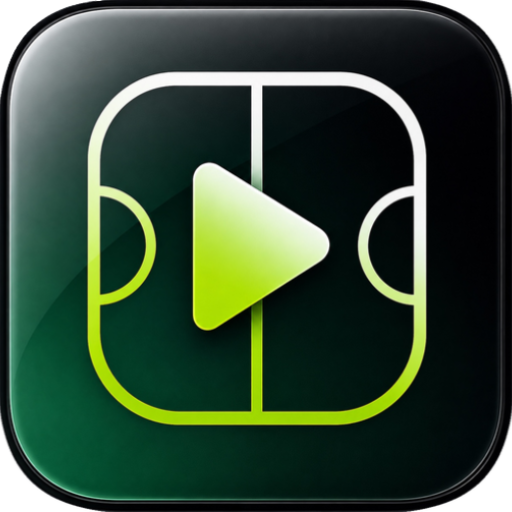
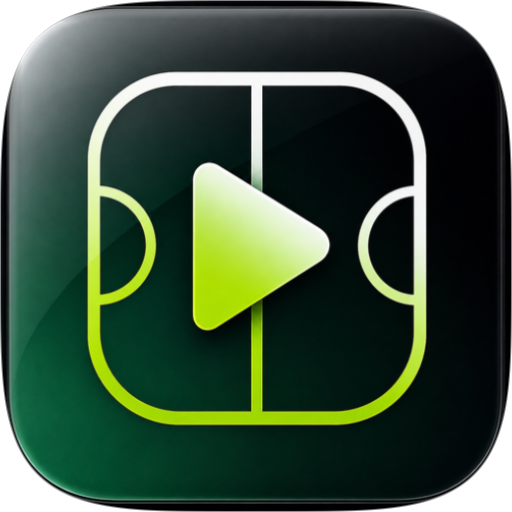
Add files via upload

Changed region(s): [[0.0, 0.0, 1.0, 1.0], [0.625, 0.625, 1.0, 1.0]]

diff --git a/script-v34.js b/script-v34.js
@@ -8,7 +8,7 @@
       demoKicker:'Интерактивное демо',demoTitle:'Нажмите кнопку. Событие уже на таймлайне.',demoIntro:'Пример кодирования: 18 хоккейных тегов, таймлайн и повтор.',demoMode:'Демо режима матча',captureActive:'Захват активен',captureModule:'Просмотр видео',buttonsModule:'Программируемые кнопки',timelineModule:'Таймлайн',replayModule:'Повтор',beforeAfterShort:'до / после',startStopShort:'старт / стоп',chance:'Hit',legendBeforeAfter:'До / после — одна отметка',legendStartStop:'Старт / стоп — повторное нажатие завершает событие',trackChance:'Hit',legendPositive:'Наша команда',legendNegative:'Против нас',legendTactical:'Тактика / структура',selectMarker:'Выберите метку на таймлайне',helpClick:'создать / выбрать событие',helpResize:'потянуть край метки',helpMove:'перенести на другую линию',helpContext:'контекстное меню',ctxExport:'Экспортировать…',ctxComposer:'Добавить в Компоузер',ctxShare:'Поделиться видеофрагментом…',ctxDetails:'Открыть карточку события…',ctxStar:'Поставить звёздочку',ctxUnstar:'Убрать звёздочку',ctxDelete:'Удалить',
       depthKicker:'Не только кодирование',depthTitle:'Инструменты, которые продолжают работу после метки.',depthIntro:'BreakOut не заканчивается на кнопках и таймлайне. В проекте есть инструменты для разбора, подготовки материала и работы прямо поверх видео.',depth1Eyebrow:'Видео',depth1Title:'Несколько ракурсов',depth1Text:'Сопоставляйте один эпизод с разных камер, когда одного угла недостаточно.',depth2Eyebrow:'Разбор',depth2Title:'Рисование поверх видео',depth2Text:'Отмечайте позиции и направления прямо на кадре для наглядного разбора.',depth3Eyebrow:'Подборки',depth3Title:'Компоузер и плейлисты',depth3Text:'Собирайте отмеченные эпизоды в последовательности для показа и дальнейшей работы.',depth4Eyebrow:'Матч',depth4Title:'Табло поверх видео',depth4Text:'Показывайте счёт, игровое время, период и Power Play прямо поверх видео.',
       liveKicker:'Для работы в реальном темпе',liveTitle:'Интерфейс не должен отвлекать от игры.',liveIntro:'BreakOut строится вокруг рабочего процесса аналитика: нужные модули рядом, события отмечаются сразу, а после матча уже есть структура для разбора.',b1t:'Оставайтесь в игре',b1d:'Программируемые кнопки и горячие клавиши позволяют отмечать события, не уходя из рабочего экрана.',b1s:'Минимум лишних переключений',b2t:'Вернитесь к моменту за секунды',b2d:'Метка на таймлайне становится точкой входа в повтор и дальнейший разбор эпизода.',b2s:'Событие уже связано со временем матча',b3t:'Соберите пространство под задачу',b3d:'Захват, таймлайн, кнопки, повтор, статистика, экспорт, рисование и несколько ракурсов можно компоновать под свою работу.',b3s:'Модульное рабочее пространство',
-      showcaseKicker:'Интерфейс',showcaseTitle:'Рабочие экраны BreakOut.',showcaseIntro:'',slide1t:'Создайте проект',slide1d:'Задайте команды и начните новый матч в отдельном проекте.',slide2t:'Выберите рабочую компоновку',slide2d:'Выберите подходящую схему панелей и соберите экран под свою работу.',slide3t:'Настройте модули',slide3d:'Определите, какие инструменты будут работать в каждой панели: захват, таймлайн, кнопки, повтор и другие модули.',slide4t:'Настройте кодирование',slide4d:'Создайте программируемые кнопки, назначьте горячие клавиши и задайте логику событий.',slide5t:'Работайте по ходу матча',slide5d:'Видео, программируемые кнопки, таймлайн и повтор остаются перед глазами одновременно.',slide6t:'Гибкий экспорт после матча',slide6d:'Экспортируйте отдельные эпизоды, материал по дорожкам или весь проект — в зависимости от задачи.',multisportKicker:'Для игровых видов спорта',multisportTitle:'BreakOut для игровых видов спорта.',multisportText:'Единый рабочий процесс видеоанализа адаптируется под хоккей, футбол, волейбол и баскетбол, сохраняя понятный инструмент для тренеров и аналитиков.',testimonialsKicker:'Отзывы',testimonialsTitle:'Что говорят о BreakOut.',testimonialsIntro:'Первые впечатления специалистов, которые работают с видео и разбором игры каждый день.',testimonialVadimQuote:'«После матча важно быстро собрать нужные эпизоды и отдать материал тренерам. В BreakOut удобно находить отмеченные моменты, сразу смотреть повтор и выгружать готовые фрагменты — на подготовку разбора уходит заметно меньше времени.»',testimonialVadimName:'Хисматуллин Вадим Александрович',testimonialVadimRole:'Тренер-видеооператор ХК «Торос» (ВХЛ)',testimonialDenisQuote:'«Во время игры мне важно не отвлекаться от происходящего. Горячие клавиши и таймлайн позволяют отмечать эпизоды прямо по ходу матча, а потом быстро вернуться к ним, добавить рисунок или сравнить момент с другого ракурса.»',testimonialDenisName:'Бикбулатов Денис Акзамович',testimonialDenisRole:'Видео-тренер ХК «Толпар» (МХЛ)',
+      showcaseKicker:'Интерфейс',showcaseTitle:'Рабочие экраны BreakOut.',showcaseIntro:'',slide1t:'Создайте проект',slide1d:'Задайте команды и начните новый матч в отдельном проекте.',slide2t:'Выберите рабочую компоновку',slide2d:'Выберите подходящую схему панелей и соберите экран под свою работу.',slide3t:'Настройте модули',slide3d:'Определите, какие инструменты будут работать в каждой панели: захват, таймлайн, кнопки, повтор и другие модули.',slide4t:'Настройте кодирование',slide4d:'Создайте программируемые кнопки, назначьте горячие клавиши и задайте логику событий.',slide5t:'Работайте по ходу матча',slide5d:'Видео, программируемые кнопки, таймлайн и повтор остаются перед глазами одновременно.',slide6t:'Гибкий экспорт после матча',slide6d:'Экспортируйте отдельные эпизоды, материал по дорожкам или весь проект — в зависимости от задачи.',multisportKicker:'Для игровых видов спорта',multisportTitle:'BreakOut для игровых видов спорта.',multisportText:'Единый рабочий процесс видеоанализа адаптируется под хоккей, футбол, волейбол и баскетбол, сохраняя понятный инструмент для тренеров и аналитиков.',testimonialsKicker:'Отзывы',testimonialsTitle:'Что говорят о BreakOut.',testimonialsIntro:'Первые впечатления специалистов, которые работают с видео и разбором игры каждый день.',testimonialVadimQuote:'«После матча важно быстро собрать нужные эпизоды и отдать материал тренерам. В BreakOut удобно находить отмеченные моменты, сразу смотреть повтор и выгружать готовые фрагменты — на подготовку разбора уходит заметно меньше времени.»',testimonialVadimName:'Хисматуллин Вадим Александрович',testimonialVadimRole:'Тренер-видеооператор ХК «Торос» (ВХЛ)',testimonialDenisQuote:'«При разработке BreakOut мы учитывали опыт хоккейных тренеров из разных лиг России. В совершенствовании программы участвовали профессиональные аналитики и видео-тренеры, ежедневно работающие с игровым видео. Их обратная связь помогла сформировать инструменты BreakOut под реальные задачи тренерских штабов и видеоанализа.»',testimonialDenisName:'Бикбулатов Денис Акзамович',testimonialDenisRole:'Видео-тренер ХК «Толпар» (МХЛ)',
       macKicker:'Почему BreakOut',macFact1Title:'Рабочее пространство под задачу',macFact1Text:'Выбирайте компоновку и набор модулей под конкретный матч или разбор.',macFact2Title:'События сразу на таймлайне',macFact2Text:'Программируемые кнопки и горячие клавиши помогают отмечать игру без лишних переходов.',macFact3Title:'Разбор и экспорт в том же проекте',macFact3Text:'Повтор, статистика и гибкий экспорт остаются частью одного рабочего процесса.',directDownload:'Прямая загрузка',directDownloadText:'Готовая версия BreakOut для macOS загружается напрямую с официального хранилища обновлений.',legalKicker:'Документы',legalTitle:'Условия и конфиденциальность.',privacyLinkShort:'Политика конфиденциальности',privacyLinkDesc:'Как обрабатываются данные аккаунта и доступа.',termsLinkShort:'Условия использования',termsLinkDesc:'Правила использования приложения, сайта и аккаунта.',
       pricingKicker:'Доступ',pricingTitle:'Выберите срок доступа.',pricingIntro:'Срок доступа привязывается к аккаунту после оплаты.',sixMonths:'6 месяцев',oneYear:'1 год',comingSoon:'Скоро',priceIncludes:'Доступ к функционалу BreakOut на оплаченный срок.',priceSixCopy:'Для начала работы.',priceYearCopy:'Для непрерывной работы в течение года.',chooseSix:'Выбрать 6 месяцев',chooseYear:'Выбрать 1 год',
       privacyKicker:'Доверие и конфиденциальность',privacyTitle:'Понятные правила до первой покупки.',privacyText:'Аккаунт BreakOut уже использует общую систему входа для сайта и приложения. Платёжные данные на сайте не хранятся.',privacyLink:'Политика конфиденциальности →',termsLink:'Условия использования →',ctaEyebrow:'BreakOut для Mac',ctaTitle:'Разбор начинается не после матча. Он начинается в момент события.',contactSupport:'Связаться с поддержкой',
@@ -25,7 +25,7 @@
       demoKicker:'Interactive demo',demoTitle:'Press a button. The event is already on the timeline.',demoIntro:'Coding example: 18 hockey tags, timeline and replay.',demoMode:'Match-mode demo',captureActive:'Capture active',captureModule:'Video',buttonsModule:'Programmable buttons',timelineModule:'Timeline',replayModule:'Replay',beforeAfterShort:'before / after',startStopShort:'start / stop',chance:'Hit',legendBeforeAfter:'Before / after — creates one event',legendStartStop:'Start / stop — press again to finish the event',trackChance:'Hit',legendPositive:'For us',legendNegative:'Against us',legendTactical:'Tactical / structure',selectMarker:'Select a marker on the timeline',helpClick:'create / select an event',helpResize:'drag a marker edge',helpMove:'move to another track',helpContext:'context menu',ctxExport:'Export…',ctxComposer:'Add to Composer',ctxShare:'Share video clip…',ctxDetails:'Open event card…',ctxStar:'Star event',ctxUnstar:'Remove star',ctxDelete:'Delete',
       depthKicker:'Beyond coding',depthTitle:'Tools that keep working after the tag.',depthIntro:'BreakOut goes beyond buttons and timeline coding with tools for review, presentation and work directly on video.',depth1Eyebrow:'Video',depth1Title:'Multiple angles',depth1Text:'Compare the same episode from different cameras when one angle is not enough.',depth2Eyebrow:'Review',depth2Title:'Drawing over video',depth2Text:'Highlight positions, movement and details directly on the frame.',depth3Eyebrow:'Collections',depth3Title:'Composer and playlists',depth3Text:'Collect tagged episodes into focused sets for presentation and further work.',depth4Eyebrow:'Match',depth4Title:'Scoreboard over video',depth4Text:'Track score, period and game time and place a compact scoreboard directly over video when needed.',
       liveKicker:'Built for live work',liveTitle:'The interface should not pull you away from the game.',liveIntro:'BreakOut is built around the analyst’s workflow: the needed modules stay close, events are marked immediately, and the match already has structure when review begins.',b1t:'Stay on the game',b1d:'Programmable buttons and hotkeys let you mark events without leaving the working screen.',b1s:'Fewer unnecessary switches',b2t:'Return to a moment in seconds',b2d:'A timeline marker becomes the entry point for replay and further analysis.',b2s:'The event is already tied to match time',b3t:'Build the workspace around the job',b3d:'Capture, timeline, buttons, replay, statistics, export, drawing and multiple angles can be arranged around your workflow.',b3s:'A modular workspace',
-      showcaseKicker:'Interface',showcaseTitle:'BreakOut working screens.',showcaseIntro:'',slide1t:'Create a project',slide1d:'Set the teams and start a new match in a dedicated project.',slide2t:'Choose the workspace layout',slide2d:'Select a panel layout and shape the workspace around the task.',slide3t:'Configure the modules',slide3d:'Choose what each panel contains: capture, timeline, buttons, replay and other tools.',slide4t:'Configure coding',slide4d:'Create programmable buttons, assign hotkeys and define event logic.',slide5t:'Work during the match',slide5d:'Video, programmable buttons, timeline and replay stay visible together.',slide6t:'Flexible post-game export',slide6d:'Export individual events, material by track or the complete project depending on the task.',multisportKicker:'Built for game-based sports',multisportTitle:'BreakOut for game-based sports.',multisportText:'One video-analysis workflow adapts to hockey, football, volleyball and basketball while keeping the same clear workspace for coaches and analysts.',testimonialsKicker:'Testimonials',testimonialsTitle:'What people say about BreakOut.',testimonialsIntro:'Early impressions from professionals who work with video and game review every day.',testimonialVadimQuote:'“After a game, the priority is to collect the right clips and get material to the coaches quickly. BreakOut makes tagged moments easy to find, replay instantly and export as finished clips, which noticeably shortens preparation time.”',testimonialVadimName:'Vadim Khismatullin',testimonialVadimRole:'Video Coach, HC Toros (VHL)',testimonialDenisQuote:'“During the game, I need to stay focused on what is happening. Hotkeys and the timeline let me tag moments live, then return to them quickly, add drawings or compare the same play from another angle.”',testimonialDenisName:'Denis Bikbulatov',testimonialDenisRole:'Video Coach, HC Tolpar (MHL)',
+      showcaseKicker:'Interface',showcaseTitle:'BreakOut working screens.',showcaseIntro:'',slide1t:'Create a project',slide1d:'Set the teams and start a new match in a dedicated project.',slide2t:'Choose the workspace layout',slide2d:'Select a panel layout and shape the workspace around the task.',slide3t:'Configure the modules',slide3d:'Choose what each panel contains: capture, timeline, buttons, replay and other tools.',slide4t:'Configure coding',slide4d:'Create programmable buttons, assign hotkeys and define event logic.',slide5t:'Work during the match',slide5d:'Video, programmable buttons, timeline and replay stay visible together.',slide6t:'Flexible post-game export',slide6d:'Export individual events, material by track or the complete project depending on the task.',multisportKicker:'Built for game-based sports',multisportTitle:'BreakOut for game-based sports.',multisportText:'One video-analysis workflow adapts to hockey, football, volleyball and basketball while keeping the same clear workspace for coaches and analysts.',testimonialsKicker:'Testimonials',testimonialsTitle:'What people say about BreakOut.',testimonialsIntro:'Early impressions from professionals who work with video and game review every day.',testimonialVadimQuote:'“After a game, the priority is to collect the right clips and get material to the coaches quickly. BreakOut makes tagged moments easy to find, replay instantly and export as finished clips, which noticeably shortens preparation time.”',testimonialVadimName:'Vadim Khismatullin',testimonialVadimRole:'Video Coach, HC Toros (VHL)',testimonialDenisQuote:'“During the development of BreakOut, we incorporated the experience of hockey coaches from different leagues across Russia. Professional analysts and video coaches who work with game footage every day also contributed to refining the product. Their feedback helped shape BreakOut around the real needs of coaching staffs and video analysis.”',testimonialDenisName:'Denis Bikbulatov',testimonialDenisRole:'Video Coach, HC Tolpar (MHL)',
       macKicker:'Why BreakOut',macFact1Title:'Workspace shaped around the task',macFact1Text:'Choose the layout and modules for a specific match or review.',macFact2Title:'Events go straight to the timeline',macFact2Text:'Programmable buttons and hotkeys help code the game without unnecessary switching.',macFact3Title:'Review and export in the same project',macFact3Text:'Replay, statistics and flexible export remain part of one workflow.',directDownload:'Direct download',directDownloadText:'The current BreakOut build for macOS downloads directly from the official update storage.',legalKicker:'Documents',legalTitle:'Terms and privacy.',privacyLinkShort:'Privacy Policy',privacyLinkDesc:'How account and access data is handled.',termsLinkShort:'Terms of Use',termsLinkDesc:'Rules for using the application, website and account.',
       pricingKicker:'Access',pricingTitle:'Choose the access term.',pricingIntro:'Your access term is linked to your account after payment.',sixMonths:'6 months',oneYear:'1 year',comingSoon:'Coming soon',priceIncludes:'Access to BreakOut functionality for the paid term.',priceSixCopy:'For getting started.',priceYearCopy:'For continuous work throughout the year.',chooseSix:'Choose 6 months',chooseYear:'Choose 1 year',
       privacyKicker:'Trust and privacy',privacyTitle:'Clear rules before the first purchase.',privacyText:'The BreakOut account now uses one shared sign-in system for the website and Mac app. Payment-card data is not stored on this site.',privacyLink:'Privacy policy →',termsLink:'Terms of use →',ctaEyebrow:'BreakOut for Mac',ctaTitle:'Analysis does not start after the match. It starts when the event happens.',contactSupport:'Contact support',

diff --git a/privacy.html b/privacy.html
@@ -3,4 +3,4 @@
   <meta http-equiv="Pragma" content="no-cache">
   <meta http-equiv="Expires" content="0"><meta name="viewport" content="width=device-width,initial-scale=1">
   <script>try{document.documentElement.dataset.theme=localStorage.getItem('breakout-theme')||'dark'}catch(e){document.documentElement.dataset.theme='dark'}</script>
-<meta name="theme-color" content="#070907"><link rel="icon" href="assets/breakout-icon.png"><link rel="stylesheet" href="styles-v34.css?v=44"><title>Политика конфиденциальности — BreakOut</title></head><body class="legal-page" data-page="privacy"><header class="topbar"><div class="nav-shell"><a class="brand" href="index.html"><img src="assets/breakout-icon.png" alt=""><span>BreakOut</span></a><div class="nav-actions"><button class="utility-toggle language-toggle" type="button" data-lang-toggle aria-label="Сменить язык" title="Сменить язык"><span data-lang-current>RU</span></button><button class="utility-toggle theme-toggle" type="button" data-theme-toggle aria-label="Сменить тему" title="Сменить тему"><span data-theme-icon aria-hidden="true">☾</span></button><a class="signin-btn legal-back-home" href="index.html" data-i18n="backHome">← На главную</a></div></div></header><main><section class="legal-hero"><div class="content-shell"><div class="kicker">BreakOut</div><h1 data-i18n="privacyPageTitle">Политика конфиденциальности</h1><p data-i18n="privacyPageIntro">Как BreakOut обращается с данными аккаунта, доступом и оплатой.</p><div class="legal-meta" data-i18n="version">Версия: 19 августа 2026</div></div></section><div class="legal-content"><div class="notice" data-i18n="privacyNotice">Аккаунты BreakOut используют Supabase Auth. Для входа и лицензирования обрабатываются e-mail, данные сессии, срок доступа и сведения об активированных Mac. Платежи пока не подключены.</div><section><h2 data-i18n="privacy1Title">1. Информация на текущем сайте</h2><p data-i18n="privacy1Copy">BreakOut использует e-mail, защищённые данные авторизации, статус доступа и сведения об активированных устройствах. Видео матчей и файлы проектов не передаются в систему аккаунтов для проверки доступа.</p></section><section><h2 data-i18n="privacy2Title">2. Аккаунты и доступ</h2><p data-i18n="privacy2Copy">Аккаунт используется для входа на сайте и в приложении, проверки срока доступа, восстановления пароля и управления активированными Mac.</p></section><section><h2 data-i18n="privacy3Title">3. Оплата</h2><p data-i18n="privacy3Copy">Данные банковской карты обрабатывает платёжный провайдер. BreakOut получает только сведения, необходимые для подтверждения платежа, тарифа и срока доступа.</p></section><section><h2 data-i18n="privacy4Title">4. Видео и проекты</h2><p data-i18n="privacy4Copy">Видео матчей и проекты остаются частью локального рабочего процесса на Mac и не передаются на сервер только ради проверки лицензии.</p></section><section><h2 data-i18n="privacy5Title">5. Контакты</h2><p><span data-i18n="privacy5Copy">Вопросы о конфиденциальности можно отправить на</span> <a data-support-email data-email-text href="#">support</a>.</p></section></div></main><footer class="footer"><div class="content-shell footer-inner"><div class="footer-brand"><img src="assets/breakout-icon.png" alt=""><span>BreakOut</span><small>© 2026</small></div><div class="footer-links"><a href="privacy.html" data-i18n="navPrivacy">Конфиденциальность</a><a href="terms.html" data-i18n="termsShort">Условия</a><a href="support.html" data-i18n="navSupport">Поддержка</a></div></div></footer><script src="config-v25.js?v=26"></script><script src="script-v34.js?v=34"></script></body></html>
+<meta name="theme-color" content="#070907"><link rel="icon" href="assets/breakout-icon.png?v=38"><link rel="stylesheet" href="styles-v34.css?v=44"><title>Политика конфиденциальности — BreakOut</title></head><body class="legal-page" data-page="privacy"><header class="topbar"><div class="nav-shell"><a class="brand" href="index.html"><img src="assets/breakout-icon.png?v=38" alt=""><span>BreakOut</span></a><div class="nav-actions"><button class="utility-toggle language-toggle" type="button" data-lang-toggle aria-label="Сменить язык" title="Сменить язык"><span data-lang-current>RU</span></button><button class="utility-toggle theme-toggle" type="button" data-theme-toggle aria-label="Сменить тему" title="Сменить тему"><span data-theme-icon aria-hidden="true">☾</span></button><a class="signin-btn legal-back-home" href="index.html" data-i18n="backHome">← На главную</a></div></div></header><main><section class="legal-hero"><div class="content-shell"><div class="kicker">BreakOut</div><h1 data-i18n="privacyPageTitle">Политика конфиденциальности</h1><p data-i18n="privacyPageIntro">Как BreakOut обращается с данными аккаунта, доступом и оплатой.</p><div class="legal-meta" data-i18n="version">Версия: 19 августа 2026</div></div></section><div class="legal-content"><div class="notice" data-i18n="privacyNotice">Аккаунты BreakOut используют Supabase Auth. Для входа и лицензирования обрабатываются e-mail, данные сессии, срок доступа и сведения об активированных Mac. Платежи пока не подключены.</div><section><h2 data-i18n="privacy1Title">1. Информация на текущем сайте</h2><p data-i18n="privacy1Copy">BreakOut использует e-mail, защищённые данные авторизации, статус доступа и сведения об активированных устройствах. Видео матчей и файлы проектов не передаются в систему аккаунтов для проверки доступа.</p></section><section><h2 data-i18n="privacy2Title">2. Аккаунты и доступ</h2><p data-i18n="privacy2Copy">Аккаунт используется для входа на сайте и в приложении, проверки срока доступа, восстановления пароля и управления активированными Mac.</p></section><section><h2 data-i18n="privacy3Title">3. Оплата</h2><p data-i18n="privacy3Copy">Данные банковской карты обрабатывает платёжный провайдер. BreakOut получает только сведения, необходимые для подтверждения платежа, тарифа и срока доступа.</p></section><section><h2 data-i18n="privacy4Title">4. Видео и проекты</h2><p data-i18n="privacy4Copy">Видео матчей и проекты остаются частью локального рабочего процесса на Mac и не передаются на сервер только ради проверки лицензии.</p></section><section><h2 data-i18n="privacy5Title">5. Контакты</h2><p><span data-i18n="privacy5Copy">Вопросы о конфиденциальности можно отправить на</span> <a data-support-email data-email-text href="#">support</a>.</p></section></div></main><footer class="footer"><div class="content-shell footer-inner"><div class="footer-brand"><img src="assets/breakout-icon.png?v=38" alt=""><span>BreakOut</span><small>© 2026</small></div><div class="footer-links"><a href="privacy.html" data-i18n="navPrivacy">Конфиденциальность</a><a href="terms.html" data-i18n="termsShort">Условия</a><a href="support.html" data-i18n="navSupport">Поддержка</a></div></div></footer><script src="config-v25.js?v=26"></script><script src="script-v34.js?v=34"></script></body></html>

diff --git a/terms.html b/terms.html
@@ -3,4 +3,4 @@
   <meta http-equiv="Pragma" content="no-cache">
   <meta http-equiv="Expires" content="0"><meta name="viewport" content="width=device-width,initial-scale=1">
   <script>try{document.documentElement.dataset.theme=localStorage.getItem('breakout-theme')||'dark'}catch(e){document.documentElement.dataset.theme='dark'}</script>
-<meta name="theme-color" content="#070907"><link rel="icon" href="assets/breakout-icon.png"><link rel="stylesheet" href="styles-v34.css?v=44"><title>Условия использования — BreakOut</title></head><body class="legal-page" data-page="terms"><header class="topbar"><div class="nav-shell"><a class="brand" href="index.html"><img src="assets/breakout-icon.png" alt=""><span>BreakOut</span></a><div class="nav-actions"><button class="utility-toggle language-toggle" type="button" data-lang-toggle aria-label="Сменить язык" title="Сменить язык"><span data-lang-current>RU</span></button><button class="utility-toggle theme-toggle" type="button" data-theme-toggle aria-label="Сменить тему" title="Сменить тему"><span data-theme-icon aria-hidden="true">☾</span></button><a class="signin-btn legal-back-home" href="index.html" data-i18n="backHome">← На главную</a></div></div></header><main><section class="legal-hero"><div class="content-shell"><div class="kicker">BreakOut</div><h1 data-i18n="termsPageTitle">Условия использования</h1><p data-i18n="termsPageIntro">Основные условия использования сайта, аккаунта и приложения BreakOut.</p><div class="legal-meta" data-i18n="version">Версия: 19 августа 2026</div></div></section><div class="legal-content"><div class="notice" data-i18n="termsNotice">Платежи пока не подключены. Цены на главной странице являются планируемыми ценами запуска.</div><section><h2 data-i18n="terms1Title">1. Сайт</h2><p data-i18n="terms1Copy">Сайт представляет BreakOut, предоставляет доступ к аккаунту и после коммерческого запуска будет использоваться для покупки и продления доступа.</p></section><section><h2 data-i18n="terms2Title">2. Доступ к программе</h2><p data-i18n="terms2Copy">После начала продаж право использования BreakOut будет связано с аккаунтом пользователя и действовать в течение оплаченного или предоставленного периода.</p></section><section><h2 data-i18n="terms3Title">3. Интеллектуальная собственность</h2><p data-i18n="terms3Copy">BreakOut, фирменное оформление, программное обеспечение и оригинальные материалы защищаются применимыми правилами интеллектуальной собственности. Получение копии приложения не даёт права распространять его от своего имени.</p></section><section><h2 data-i18n="terms4Title">4. Подписка и оплата</h2><p data-i18n="terms4Copy">Срок доступа, стоимость, продление, отмена, возвраты, налоги и условия оплаты будут показаны до подтверждения покупки.</p></section><section><h2 data-i18n="terms5Title">5. Контакты</h2><p><span data-i18n="terms5Copy">Вопросы об условиях можно отправить на</span> <a data-support-email data-email-text href="#">support</a>.</p></section></div></main><footer class="footer"><div class="content-shell footer-inner"><div class="footer-brand"><img src="assets/breakout-icon.png" alt=""><span>BreakOut</span><small>© 2026</small></div><div class="footer-links"><a href="privacy.html" data-i18n="navPrivacy">Конфиденциальность</a><a href="terms.html" data-i18n="termsShort">Условия</a><a href="support.html" data-i18n="navSupport">Поддержка</a></div></div></footer><script src="config-v25.js?v=26"></script><script src="script-v34.js?v=34"></script></body></html>
+<meta name="theme-color" content="#070907"><link rel="icon" href="assets/breakout-icon.png?v=38"><link rel="stylesheet" href="styles-v34.css?v=44"><title>Условия использования — BreakOut</title></head><body class="legal-page" data-page="terms"><header class="topbar"><div class="nav-shell"><a class="brand" href="index.html"><img src="assets/breakout-icon.png?v=38" alt=""><span>BreakOut</span></a><div class="nav-actions"><button class="utility-toggle language-toggle" type="button" data-lang-toggle aria-label="Сменить язык" title="Сменить язык"><span data-lang-current>RU</span></button><button class="utility-toggle theme-toggle" type="button" data-theme-toggle aria-label="Сменить тему" title="Сменить тему"><span data-theme-icon aria-hidden="true">☾</span></button><a class="signin-btn legal-back-home" href="index.html" data-i18n="backHome">← На главную</a></div></div></header><main><section class="legal-hero"><div class="content-shell"><div class="kicker">BreakOut</div><h1 data-i18n="termsPageTitle">Условия использования</h1><p data-i18n="termsPageIntro">Основные условия использования сайта, аккаунта и приложения BreakOut.</p><div class="legal-meta" data-i18n="version">Версия: 19 августа 2026</div></div></section><div class="legal-content"><div class="notice" data-i18n="termsNotice">Платежи пока не подключены. Цены на главной странице являются планируемыми ценами запуска.</div><section><h2 data-i18n="terms1Title">1. Сайт</h2><p data-i18n="terms1Copy">Сайт представляет BreakOut, предоставляет доступ к аккаунту и после коммерческого запуска будет использоваться для покупки и продления доступа.</p></section><section><h2 data-i18n="terms2Title">2. Доступ к программе</h2><p data-i18n="terms2Copy">После начала продаж право использования BreakOut будет связано с аккаунтом пользователя и действовать в течение оплаченного или предоставленного периода.</p></section><section><h2 data-i18n="terms3Title">3. Интеллектуальная собственность</h2><p data-i18n="terms3Copy">BreakOut, фирменное оформление, программное обеспечение и оригинальные материалы защищаются применимыми правилами интеллектуальной собственности. Получение копии приложения не даёт права распространять его от своего имени.</p></section><section><h2 data-i18n="terms4Title">4. Подписка и оплата</h2><p data-i18n="terms4Copy">Срок доступа, стоимость, продление, отмена, возвраты, налоги и условия оплаты будут показаны до подтверждения покупки.</p></section><section><h2 data-i18n="terms5Title">5. Контакты</h2><p><span data-i18n="terms5Copy">Вопросы об условиях можно отправить на</span> <a data-support-email data-email-text href="#">support</a>.</p></section></div></main><footer class="footer"><div class="content-shell footer-inner"><div class="footer-brand"><img src="assets/breakout-icon.png?v=38" alt=""><span>BreakOut</span><small>© 2026</small></div><div class="footer-links"><a href="privacy.html" data-i18n="navPrivacy">Конфиденциальность</a><a href="terms.html" data-i18n="termsShort">Условия</a><a href="support.html" data-i18n="navSupport">Поддержка</a></div></div></footer><script src="config-v25.js?v=26"></script><script src="script-v34.js?v=34"></script></body></html>

diff --git a/support.html b/support.html
@@ -3,7 +3,7 @@
   <meta http-equiv="Pragma" content="no-cache">
   <meta http-equiv="Expires" content="0"><meta name="viewport" content="width=device-width,initial-scale=1">
   <script>try{document.documentElement.dataset.theme=localStorage.getItem('breakout-theme')||'dark'}catch(e){document.documentElement.dataset.theme='dark'}</script>
-<meta name="theme-color" content="#070907"><link rel="icon" href="assets/breakout-icon.png"><link rel="stylesheet" href="styles-v34.css?v=44"><title>Поддержка — BreakOut</title></head><body class="legal-page" data-page="support">
-<header class="topbar"><div class="nav-shell"><a class="brand" href="index.html"><img src="assets/breakout-icon.png" alt=""><span>BreakOut</span></a><div class="nav-actions"><button class="utility-toggle language-toggle" type="button" data-lang-toggle aria-label="Сменить язык" title="Сменить язык"><span data-lang-current>RU</span></button><button class="utility-toggle theme-toggle" type="button" data-theme-toggle aria-label="Сменить тему" title="Сменить тему"><span data-theme-icon aria-hidden="true">☾</span></button><a class="signin-btn legal-back-home" href="index.html" data-i18n="backHome">← На главную</a></div></div></header>
+<meta name="theme-color" content="#070907"><link rel="icon" href="assets/breakout-icon.png?v=38"><link rel="stylesheet" href="styles-v34.css?v=44"><title>Поддержка — BreakOut</title></head><body class="legal-page" data-page="support">
+<header class="topbar"><div class="nav-shell"><a class="brand" href="index.html"><img src="assets/breakout-icon.png?v=38" alt=""><span>BreakOut</span></a><div class="nav-actions"><button class="utility-toggle language-toggle" type="button" data-lang-toggle aria-label="Сменить язык" title="Сменить язык"><span data-lang-current>RU</span></button><button class="utility-toggle theme-toggle" type="button" data-theme-toggle aria-label="Сменить тему" title="Сменить тему"><span data-theme-icon aria-hidden="true">☾</span></button><a class="signin-btn legal-back-home" href="index.html" data-i18n="backHome">← На главную</a></div></div></header>
 <main><section class="legal-hero"><div class="content-shell"><div class="kicker">BreakOut</div><h1 data-i18n="supportTitle">Поддержка</h1><p data-i18n="supportIntro">Помощь по BreakOut для macOS: установка, доступ, работа приложения и вопросы по продукту.</p><div class="support-cards"><div class="support-card"><h3 data-i18n="supportEmailTitle">Поддержка по e-mail</h3><p data-i18n="supportEmailCopy">Для технических вопросов, отзывов о программе и вопросов по доступу.</p><a class="button primary" data-support-email href="#" data-i18n="supportEmailButton">Написать</a></div><div class="support-card"><h3 data-i18n="supportAccessTitle">Загрузка и доступ</h3><p data-i18n="supportAccessCopy">Аккаунт уже используется для тестового входа и проверки доступа. Публичная загрузка приложения будет открыта к коммерческому запуску.</p><a class="button secondary" href="index.html#pricing" data-i18n="supportAccessButton">Посмотреть тарифы</a></div></div></div></section><div class="legal-content"><section><h2 data-i18n="supportBeforeTitle">Если возникла техническая проблема</h2><p data-i18n="supportBeforeCopy">Укажите версию BreakOut, версию macOS, что вы делали перед ошибкой и точный текст сообщения. Если проблема видна на экране, приложите скриншот.</p></section><section><h2 data-i18n="supportPaymentsTitle">Оплата и подписка</h2><p data-i18n="supportPaymentsCopy">После запуска продаж в аккаунте BreakOut можно будет видеть статус доступа и информацию о подписке.</p></section></div></main>
-<footer class="footer"><div class="content-shell footer-inner"><div class="footer-brand"><img src="assets/breakout-icon.png" alt=""><span>BreakOut</span><small>© 2026</small></div><div class="footer-links"><a href="privacy.html" data-i18n="navPrivacy">Конфиденциальность</a><a href="terms.html" data-i18n="termsShort">Условия</a><a href="support.html" data-i18n="navSupport">Поддержка</a></div></div></footer><script src="config-v25.js?v=26"></script><script src="script-v34.js?v=34"></script></body></html>
+<footer class="footer"><div class="content-shell footer-inner"><div class="footer-brand"><img src="assets/breakout-icon.png?v=38" alt=""><span>BreakOut</span><small>© 2026</small></div><div class="footer-links"><a href="privacy.html" data-i18n="navPrivacy">Конфиденциальность</a><a href="terms.html" data-i18n="termsShort">Условия</a><a href="support.html" data-i18n="navSupport">Поддержка</a></div></div></footer><script src="config-v25.js?v=26"></script><script src="script-v34.js?v=34"></script></body></html>

diff --git a/index.html b/index.html
@@ -17,9 +17,10 @@
   <meta property="og:type" content="website">
   <meta property="og:title" content="BreakOut — спортивный видеоанализ для Mac">
   <meta property="og:description" content="Запись матча, маркировка событий, повтор, статистика и экспорт в одном рабочем пространстве.">
-  <meta property="og:image" content="assets/breakout-icon.png">
-  <link rel="icon" href="assets/breakout-icon.png">
-  <link rel="apple-touch-icon" href="assets/breakout-icon.png">
+  <meta property="og:image" content="assets/breakout-og.png?v=38">
+  <meta name="twitter:image" content="assets/breakout-og.png?v=38">
+  <link rel="icon" href="assets/breakout-icon.png?v=38">
+  <link rel="apple-touch-icon" href="assets/breakout-icon.png?v=38">
   <link rel="manifest" href="site.webmanifest">
   <link rel="stylesheet" href="styles-v34.css?v=44">
   <title>BreakOut — спортивный видеоанализ для Mac</title>
@@ -29,7 +30,7 @@
     <div class="nav-shell">
       <div class="brand-cluster">
         <a class="brand" href="#top" aria-label="BreakOut">
-          <img src="assets/breakout-icon.png" alt="">
+          <img src="assets/breakout-icon.png?v=38" alt="">
           <span>BreakOut</span>
         </a>
         <a class="header-signin" href="account.html?mode=signin" data-i18n="signIn">Войти</a>
@@ -85,7 +86,7 @@
         <div class="demo-shell-wrap">
           <div class="demo-app" id="breakout-demo" style="--split-x:58%;--split-y:58%">
             <div class="demo-titlebar">
-              <div class="demo-brand"><img src="assets/breakout-icon.png" alt=""><span>BreakOut</span><em>25 Feb 2018 — Russia vs Germany</em></div>
+              <div class="demo-brand"><img src="assets/breakout-icon.png?v=38" alt=""><span>BreakOut</span><em>25 Feb 2018 — Russia vs Germany</em></div>
               <div class="demo-status"><span class="record-dot"></span><span data-i18n="captureActive">Захват активен</span><b id="demo-clock">23:54</b></div>
             </div>
             <div class="demo-grid">
@@ -340,7 +341,7 @@
           <article class="testimonial-card">
             <div class="testimonial-copy">
               <div class="testimonial-rating" aria-label="5 из 5"><span>★★★★★</span></div>
-              <blockquote data-i18n="testimonialDenisQuote">«Во время игры мне важно не отвлекаться от происходящего. Горячие клавиши и таймлайн позволяют отмечать эпизоды прямо по ходу матча, а потом быстро вернуться к ним, добавить рисунок или сравнить момент с другого ракурса.»</blockquote>
+              <blockquote data-i18n="testimonialDenisQuote">«При разработке BreakOut мы учитывали опыт хоккейных тренеров из разных лиг России. В совершенствовании программы участвовали профессиональные аналитики и видео-тренеры, ежедневно работающие с игровым видео. Их обратная связь помогла сформировать инструменты BreakOut под реальные задачи тренерских штабов и видеоанализа.»</blockquote>
               <div class="testimonial-person">
                 <strong data-i18n="testimonialDenisName">Бикбулатов Денис Акзамович</strong>
                 <span data-i18n="testimonialDenisRole">Видео-тренер ХК «Толпар» (МХЛ)</span>
@@ -435,7 +436,7 @@
 
   <footer class="footer">
     <div class="content-shell footer-inner">
-      <div class="footer-brand"><img src="assets/breakout-icon.png" alt=""><span>BreakOut</span><small>© 2026</small></div>
+      <div class="footer-brand"><img src="assets/breakout-icon.png?v=38" alt=""><span>BreakOut</span><small>© 2026</small></div>
       <div class="footer-links"><a href="privacy.html" data-i18n="navPrivacy">Конфиденциальность</a><a href="terms.html" data-i18n="termsShort">Условия</a><a href="support.html" data-i18n="navSupport">Поддержка</a></div>
     </div>
   </footer>
@@ -450,6 +451,6 @@
   </div>
 
   <script src="config-v25.js?v=26"></script>
-  <script src="script-v34.js?v=40"></script>
+  <script src="script-v34.js?v=41"></script>
 </body>
 </html>

diff --git a/account.html b/account.html
@@ -9,15 +9,15 @@
   <script>try{document.documentElement.dataset.theme=localStorage.getItem('breakout-theme')||'dark'}catch(e){document.documentElement.dataset.theme='dark'}</script>
   <meta name="theme-color" content="#070907">
   <meta name="robots" content="noindex,nofollow">
-  <link rel="icon" href="assets/breakout-icon.png">
-  <link rel="apple-touch-icon" href="assets/breakout-icon.png">
+  <link rel="icon" href="assets/breakout-icon.png?v=38">
+  <link rel="apple-touch-icon" href="assets/breakout-icon.png?v=38">
   <link rel="stylesheet" href="styles-v34.css?v=44">
   <title>Аккаунт — BreakOut</title>
 </head>
 <body class="account-page" data-page="account" data-build="20.0">
   <header class="topbar">
     <div class="nav-shell">
-      <a class="brand" href="index.html" aria-label="BreakOut"><img src="assets/breakout-icon.png" alt=""><span>BreakOut</span></a>
+      <a class="brand" href="index.html" aria-label="BreakOut"><img src="assets/breakout-icon.png?v=38" alt=""><span>BreakOut</span></a>
       <div class="nav-actions">
         <button class="utility-toggle language-toggle" type="button" data-lang-toggle aria-label="Сменить язык" title="Сменить язык"><span data-lang-current>RU</span></button>
         <button class="utility-toggle theme-toggle" type="button" data-theme-toggle aria-label="Сменить тему" title="Сменить тему"><span data-theme-icon aria-hidden="true">☾</span></button>
@@ -30,7 +30,7 @@
     <section class="account-hero">
       <div class="content-shell account-layout">
         <div class="account-auth-card">
-          <div class="account-brand-line"><img src="assets/breakout-icon.png" alt=""><div><span data-i18n="accountPageKicker">Аккаунт BreakOut</span><small data-i18n="accountPageSub">Один аккаунт для сайта и приложения на Mac.</small></div></div>
+          <div class="account-brand-line"><img src="assets/breakout-icon.png?v=38" alt=""><div><span data-i18n="accountPageKicker">Аккаунт BreakOut</span><small data-i18n="accountPageSub">Один аккаунт для сайта и приложения на Mac.</small></div></div>
           <div class="account-tabs" role="tablist" data-auth-tabs>
             <button type="button" data-account-mode="signin" class="active" data-i18n="signIn">Войти</button>
             <button type="button" data-account-mode="register" data-i18n="createAccount">Создать аккаунт</button>
@@ -104,7 +104,7 @@
     </section>
   </main>
 
-  <footer class="footer"><div class="content-shell footer-inner"><div class="footer-brand"><img src="assets/breakout-icon.png" alt=""><span>BreakOut</span><small>© 2026</small></div><div class="footer-links"><a href="privacy.html" data-i18n="navPrivacy">Конфиденциальность</a><a href="terms.html" data-i18n="termsShort">Условия</a><a href="support.html" data-i18n="navSupport">Поддержка</a></div></div></footer>
+  <footer class="footer"><div class="content-shell footer-inner"><div class="footer-brand"><img src="assets/breakout-icon.png?v=38" alt=""><span>BreakOut</span><small>© 2026</small></div><div class="footer-links"><a href="privacy.html" data-i18n="navPrivacy">Конфиденциальность</a><a href="terms.html" data-i18n="termsShort">Условия</a><a href="support.html" data-i18n="navSupport">Поддержка</a></div></div></footer>
   <script src="config-v25.js?v=26"></script>
   <script src="supabase-v25.js?v=25"></script>
   <script src="script-v34.js?v=34"></script>
